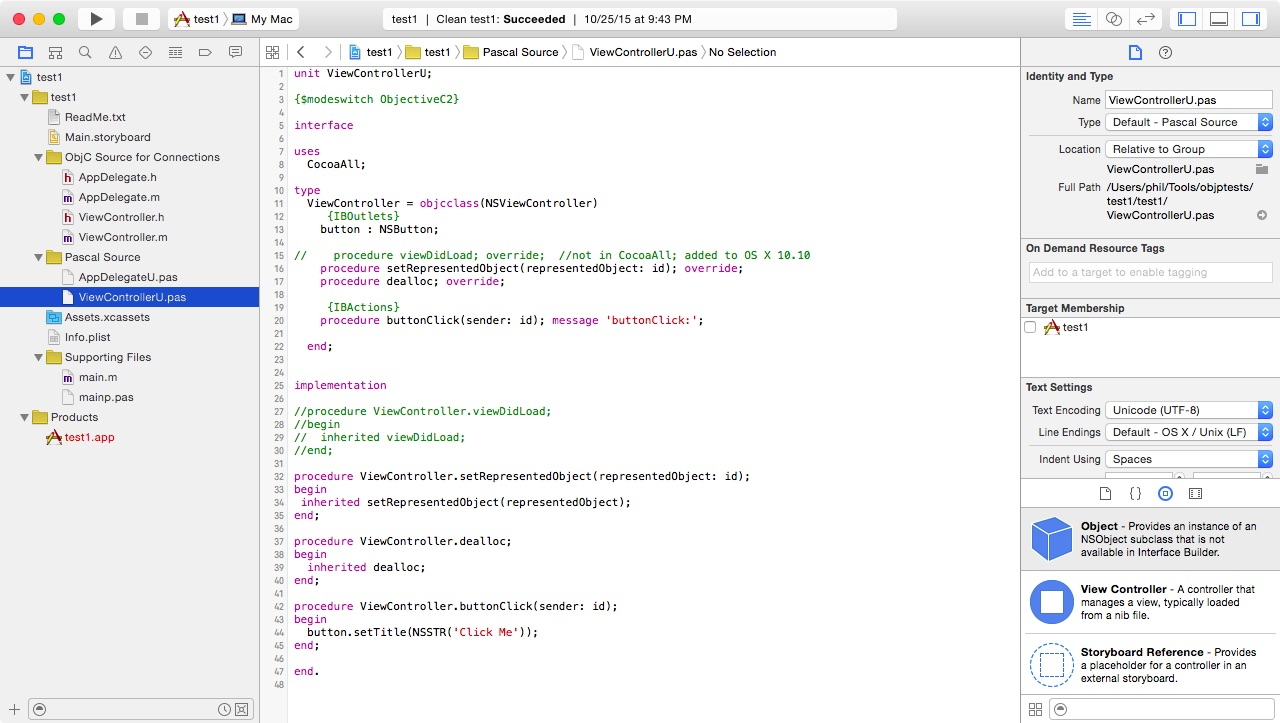
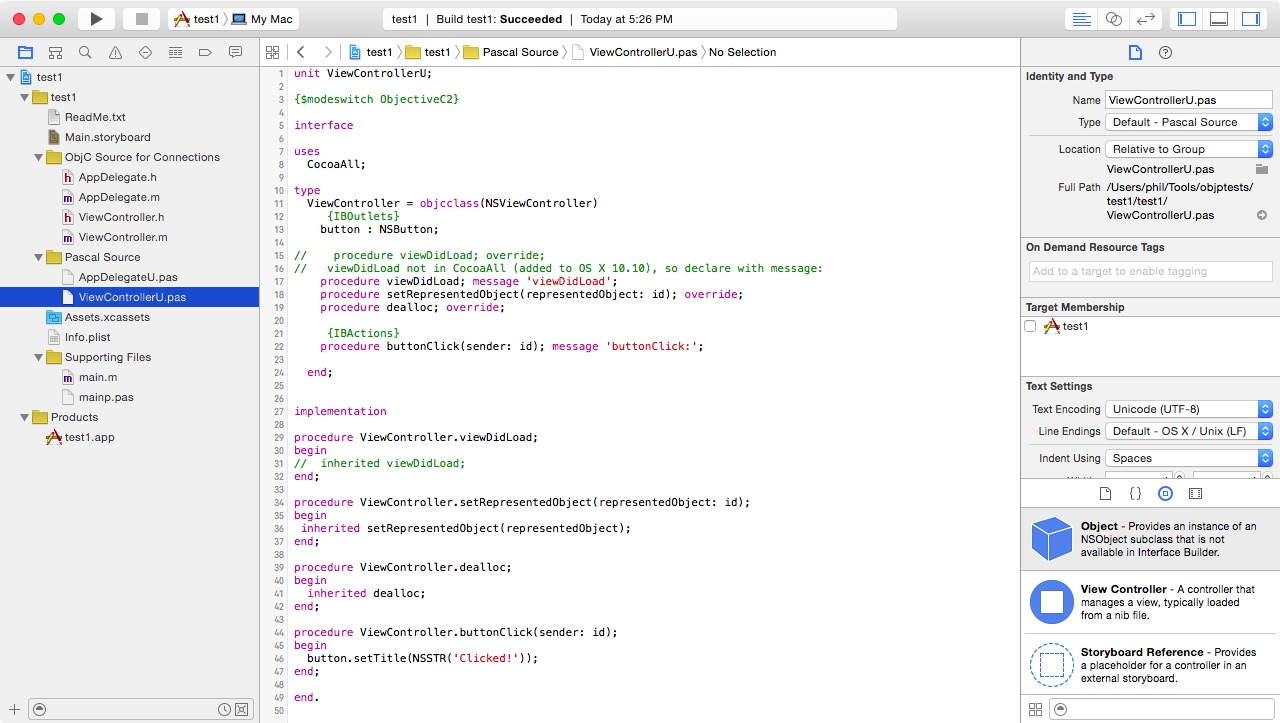
ProjectXC: Minor changes to osx-simple template

diff --git a/ObjP/ProjectXC.html b/ObjP/ProjectXC.html
@@ -118,7 +118,7 @@ As an example, here's how to add a button to a new project based on the
      Copy the commented Pascal code in ViewController.h and paste it 
      where indicated in ViewControllerU.pas, removing the "//". Your code
      should look something like this <A HREF="Xcode-test1.jpg">screenshot</A>.<P>
- <LI>Choose Product | Run, then click the button to change its title to Click Me.
+ <LI>Choose Product | Run, then click the button to change its title to Clicked!.
 </UL>
 
 <HR>
